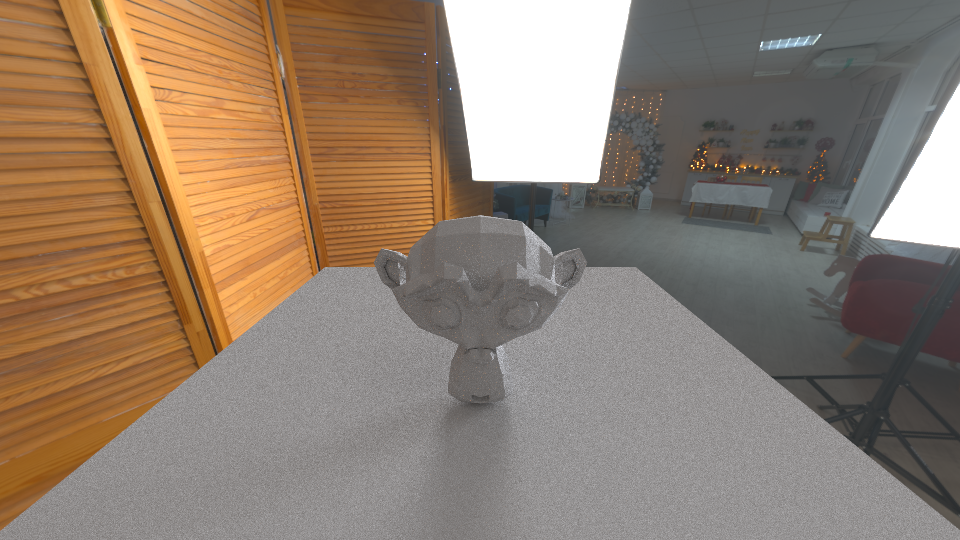
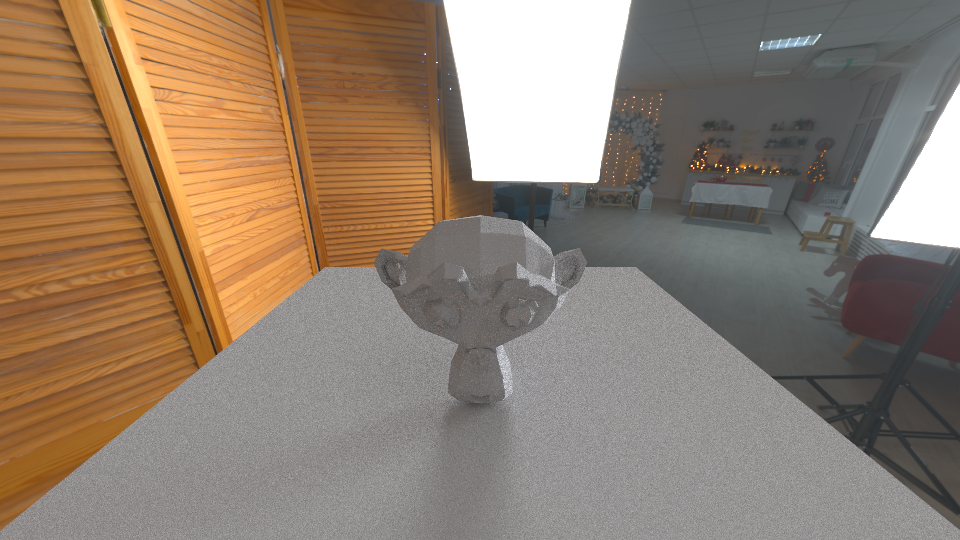
BVH: Fixed orientation

Changed region(s): [[0.5312, 0.4444, 0.5938, 0.563], [0.5, 0.6519, 0.5625, 0.7407], [0.5312, 0.6222, 0.5625, 0.6519]]

diff --git a/src/bvh/mod.rs b/src/bvh/mod.rs
@@ -37,10 +37,13 @@ pub fn triangles_from_bufread<T: BufRead>(buffer: T) -> Result<Vec<Triangle>, Er
             
         })
         .map(|(v0, v1, v2)| {
-            let v0 = Vector3::new(v0.position[0], v0.position[1], v0.position[2]);
-            let v1 = Vector3::new(v1.position[0], v1.position[1], v1.position[2]);
-            let v2 = Vector3::new(v2.position[0], v2.position[1], v2.position[2]);
-            Triangle::new(v0, v1, v2, Vector3::from_single(1.0), Vector3::zero(), MaterialType::Diffuse)
+            let n0 = Vector3::new(-v0.normal[0], v0.normal[1], v0.normal[2]);
+            let n1 = Vector3::new(-v1.normal[0], v1.normal[1], v1.normal[2]);
+            let n2 = Vector3::new(-v2.normal[0], v2.normal[1], v2.normal[2]);
+            let v0 = Vector3::new(-v0.position[0], v0.position[1], v0.position[2]);
+            let v1 = Vector3::new(-v1.position[0], v1.position[1], v1.position[2]);
+            let v2 = Vector3::new(-v2.position[0], v2.position[1], v2.position[2]);
+            Triangle::new_with_normal(v2, v1, v0,n0, n1, n2, Vector3::from_single(1.0), Vector3::zero(), MaterialType::Diffuse)
         }).collect();
     Ok(triangles)
 }

diff --git a/src/scene.rs b/src/scene.rs
@@ -33,15 +33,4 @@ pub fn get_resolver() -> AABBRayResolver{
     let r = generate_bvh_from_file("teapot.obj").unwrap();
     println!("BVH done!");
     r
-    /*println!("Building B2 triangle array");
-    let triangles = triangles_from_file("teapot.obj").unwrap();
-    let triangles = triangles.iter().map(|a|TriangleResolver{triangle: a.clone()});
-    let mut boxed: Vec<Box<(dyn RayResolver + Sync + 'static)>> = Vec::new();
-    for t in triangles{
-        boxed.push(Box::new(t));
-    }
-    println!("Done building B2 triangle array");
-    MultiRayResolver{
-        inner: boxed
-    }*/
 }
